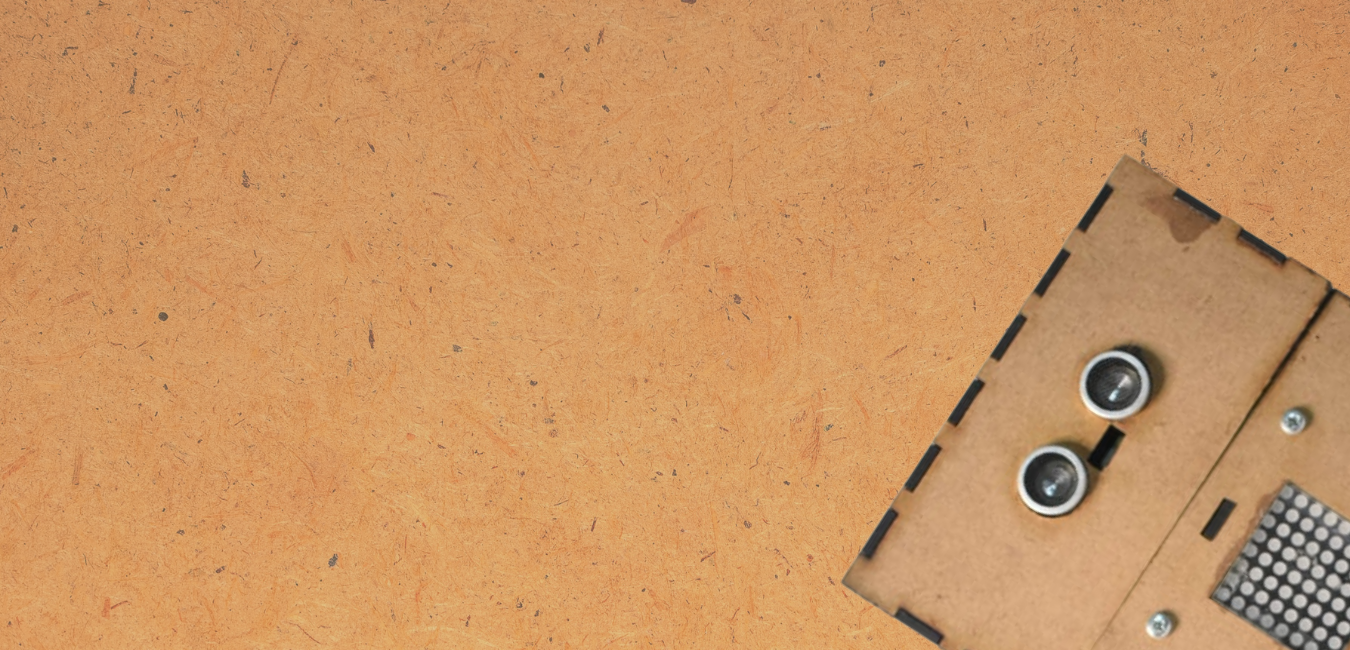
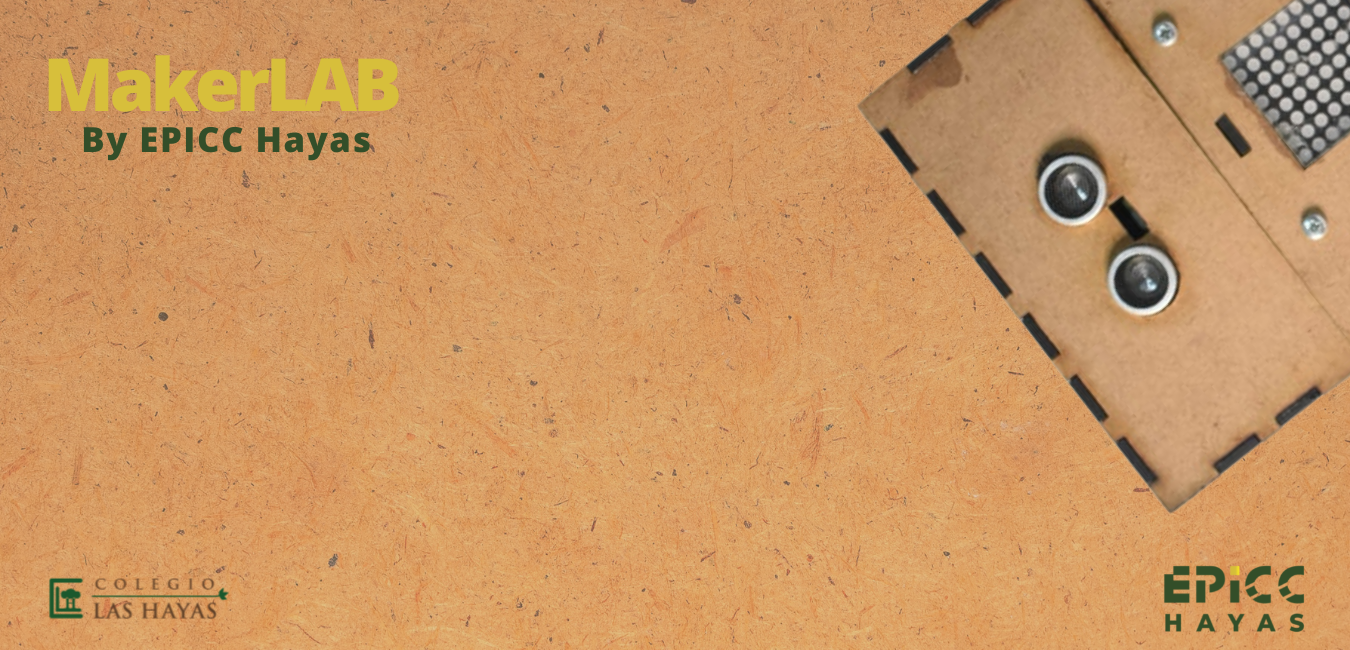
header

Changed region(s): [[0.6222, 0.0, 1.0, 1.0], [0.0311, 0.0923, 0.3111, 0.2462], [0.0311, 0.8923, 0.1867, 0.9538]]

diff --git a/index.html b/index.html
@@ -6,7 +6,7 @@
 -->
 <html>
 	<head>
-		<title>Tessellate by HTML5 UP</title>
+		<title>Hayas Ark</title>
 		<meta charset="utf-8" />
 		<meta name="viewport" content="width=device-width, initial-scale=1, user-scalable=no" />
 		<link rel="stylesheet" href="assets/css/main.css" />
@@ -16,11 +16,11 @@
 		<!-- Header -->
 			<section id="header" class="dark">
 				<header>
-					<h1>Welcome to Tessellate</h1>
-					<p>A free responsive site template by <a href="http://html5up.net">HTML5 UP</a></p>
+					<h1>Big Otto Legs LC</h1>
+					<p>Descubre el remix de este proyecto open source que hemos diseñado para nuestros alumnos <a href="http://html5up.net">HTML5 UP</a></p>
 				</header>
 				<footer>
-					<a href="#first" class="button scrolly">Proceed to second phase</a>
+					<a href="#first" class="button scrolly">Descubrir</a>
 				</footer>
 			</section>
 

diff --git a/assets/css/main.css b/assets/css/main.css
@@ -2182,7 +2182,7 @@ input, select, textarea {
 	#header {
 		position: relative;
 		margin: 0;
-		background-image: url("images/overlay.png"), url("../../images/header.jpg");
+		background-image: url("images/overlay.png"), url("../../images/header.png");
 		background-size: auto, cover;
 		background-position: top left, center center;
 		background-repeat: repeat, no-repeat;
